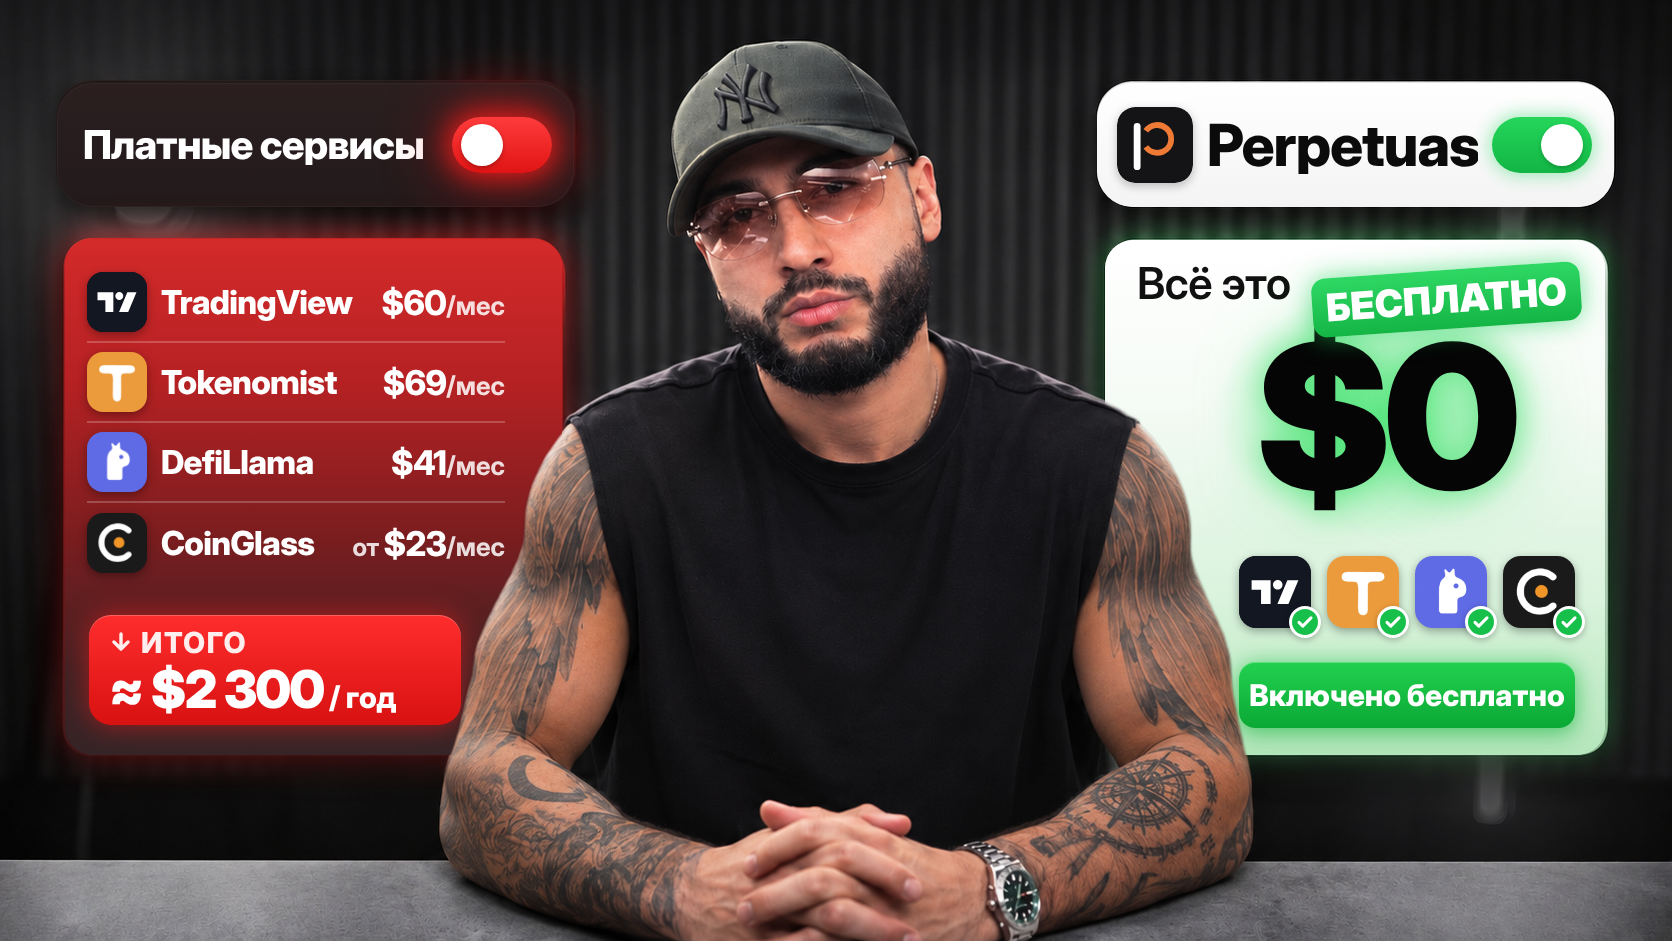
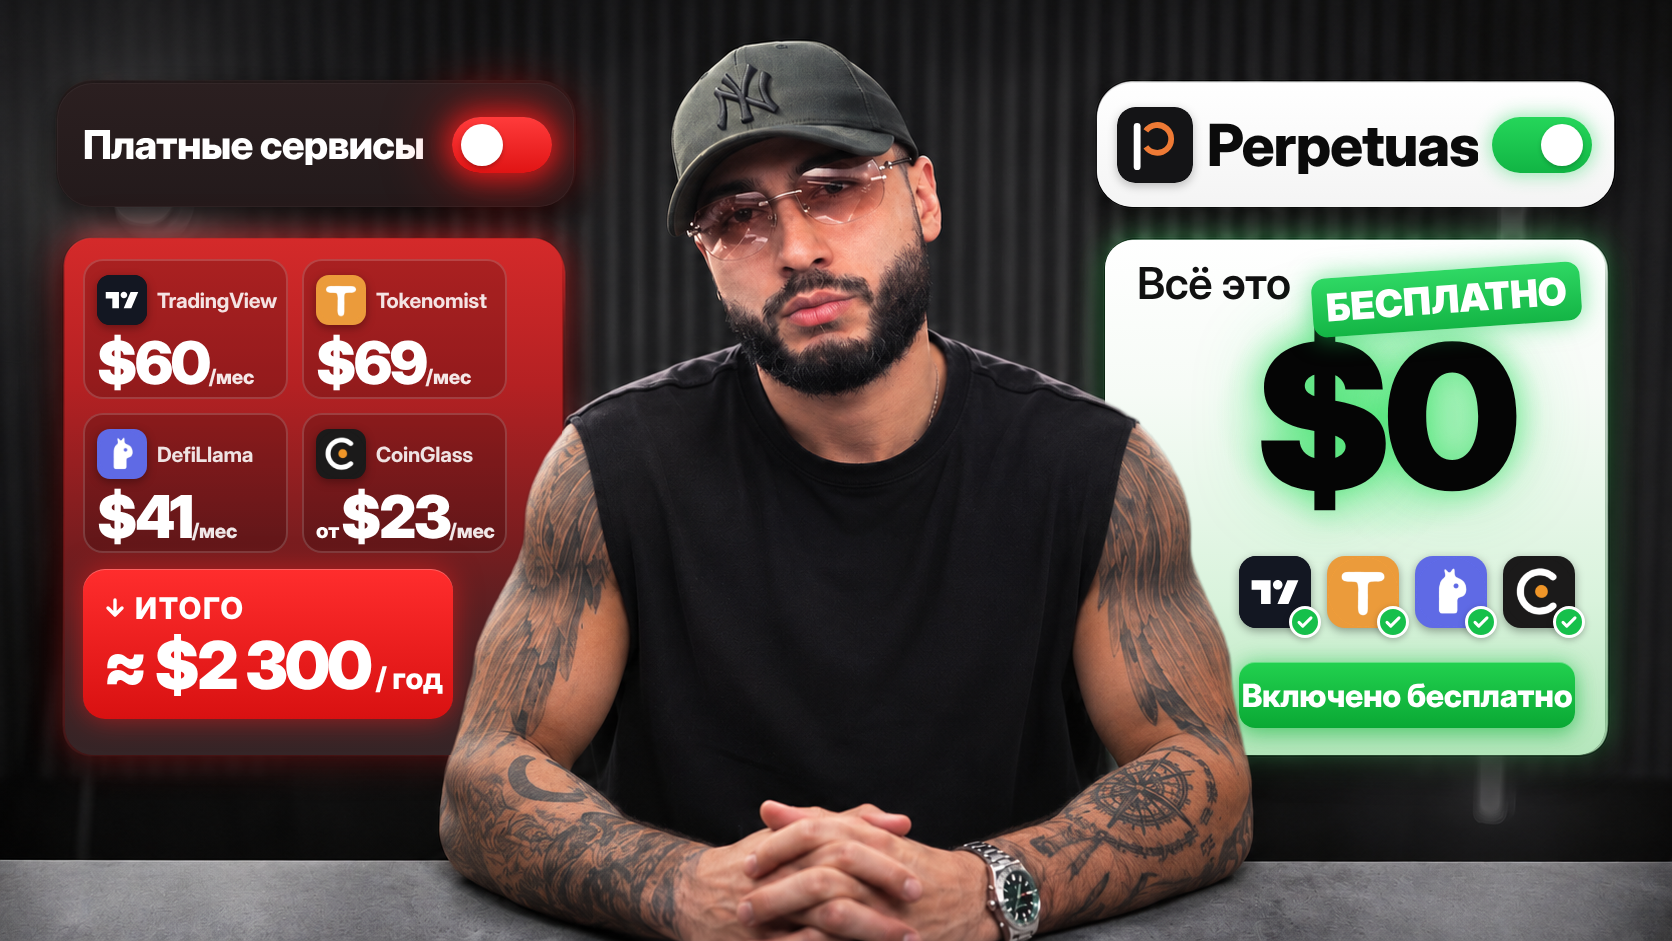
Thumbnail: bigger prices (2x2 tiles) and total for small-size legibility
Claude-Session: https://claude.ai/code/session_01Ep7WauupJspbq7yH3p3BPA

Changed region(s): [[0.0311, 0.2774, 0.311, 0.7705], [0.7464, 0.7088, 0.933, 0.7705]]

diff --git a/youtube_thumbnail/src/cards.html b/youtube_thumbnail/src/cards.html
@@ -38,24 +38,24 @@ body{font-family:"ID",sans-serif;position:relative;-webkit-font-smoothing:antial
   background:linear-gradient(180deg,#ffffff 0%,#f6fbf6 30%,#d9f3dc 70%,#b4e6bb 100%);
   box-shadow:0 0 34px rgba(80,230,120,.25),0 18px 40px rgba(0,0,0,.45)}
 
-/* left list */
-.list{position:absolute;left:22px;top:24px;width:418px}
-.row{display:flex;align-items:center;height:80px;gap:14px;border-bottom:2px solid rgba(255,255,255,.22)}
-.row:last-child{border-bottom:none}
-.ico{flex:none;width:60px;height:60px;border-radius:16px;overflow:hidden;display:flex;align-items:center;justify-content:center;
-  box-shadow:0 3px 10px rgba(0,0,0,.35)}
+/* left grid */
+.ico{flex:none;width:60px;height:60px;border-radius:16px;overflow:hidden;display:flex;align-items:center;justify-content:center;box-shadow:0 3px 10px rgba(0,0,0,.35)}
 .ico img{width:100%;height:100%;display:block}
-.name{color:#fff;font-weight:800;font-size:33px;letter-spacing:-0.02em;flex:1;white-space:nowrap}
-.price{color:#fff;font-weight:800;font-size:34px;letter-spacing:-0.02em;white-space:nowrap;text-align:right}
-.price small{font-size:26px;font-weight:700;color:rgba(255,255,255,.85);letter-spacing:0}
-.price .from{font-size:25px;font-weight:700;color:rgba(255,255,255,.85);margin-right:5px}
-
-.total{position:absolute;left:24px;top:376px;width:372px;height:110px;border-radius:22px;
+.grid{position:absolute;left:18px;top:20px;width:424px;display:grid;grid-template-columns:205px 205px;gap:14px}
+.tile{height:140px;border-radius:20px;background:rgba(0,0,0,.18);border:2px solid rgba(255,255,255,.16);padding:14px 10px 0 12px;position:relative;overflow:hidden}
+.tile .pr{display:inline-block;width:max-content}
+.tile .hd{display:flex;align-items:center;gap:10px}
+.tile .ico{width:50px;height:50px;border-radius:13px}
+.tile .nm{color:rgba(255,255,255,.88);font-weight:700;font-size:21px;letter-spacing:-0.01em;white-space:nowrap}
+.tile .pr{color:#fff;font-weight:900;font-size:66px;letter-spacing:-0.04em;line-height:1;margin-top:8px;white-space:nowrap}
+.tile .pr small{font-size:20px;font-weight:800;letter-spacing:-0.01em;color:rgba(255,255,255,.9)}
+.tile .pr .from{font-size:21px;font-weight:800;letter-spacing:-0.01em;margin-right:2px}
+.total{position:absolute;left:18px;top:330px;width:370px;height:150px;border-radius:22px;
   background:linear-gradient(180deg,#ff2d2d,#d81111);
   box-shadow:0 0 28px rgba(255,30,30,.55),inset 0 1px 0 rgba(255,255,255,.25);
   display:flex;flex-direction:column;align-items:flex-start;justify-content:center;padding:0 20px;color:#fff}
-.total .l1{font-weight:800;font-size:29px;letter-spacing:.06em;opacity:.92;display:flex;align-items:center;gap:8px}
-.total .l2{font-weight:900;font-size:52px;letter-spacing:-0.03em;line-height:1;margin-top:4px;white-space:nowrap}
+.total .l1{font-weight:800;font-size:30px;letter-spacing:.06em;display:flex;align-items:center;gap:8px}
+.total .l2{font-weight:900;font-size:66px;letter-spacing:-0.04em;line-height:1;margin-top:6px;white-space:nowrap}
 .total .l2 small{font-size:30px;font-weight:800;letter-spacing:-0.01em}
 
 /* right card */
@@ -73,7 +73,7 @@ body{font-family:"ID",sans-serif;position:relative;-webkit-font-smoothing:antial
 .icons .ck{position:absolute;right:-10px;bottom:-10px;width:32px;height:32px;border-radius:50%;background:#16c04b;
   border:3px solid #fff;display:flex;align-items:center;justify-content:center;box-shadow:0 2px 6px rgba(0,0,0,.25)}
 .btn{position:absolute;right:30px;top:422px;width:336px;height:66px;border-radius:16px;
-  background:linear-gradient(180deg,#22d14f,#0aa834);color:#fff;font-weight:800;font-size:30px;letter-spacing:0;white-space:nowrap;
+  background:linear-gradient(180deg,#22d14f,#0aa834);color:#fff;font-weight:800;font-size:32px;letter-spacing:-0.01em;white-space:nowrap;
   display:flex;align-items:center;justify-content:center;box-shadow:0 6px 20px rgba(10,170,50,.45),0 0 22px rgba(30,210,80,.35),inset 0 1px 0 rgba(255,255,255,.3)}
 </style></head>
 <body>
@@ -85,12 +85,12 @@ body{font-family:"ID",sans-serif;position:relative;-webkit-font-smoothing:antial
 
 <!-- LEFT CARD -->
 <div class="abs card cardL">
-  <div class="list">
-    <div class="row"><div class="ico" style="background:#131722"><img src="icons/tradingview_tile.svg"></div><div class="name">TradingView</div><div class="price">$60<small>/мес</small></div></div>
-    <div class="row"><div class="ico" style="background:#eb9b3b"><img src="icons/tokenomist.png"></div><div class="name">Tokenomist</div><div class="price">$69<small>/мес</small></div></div>
-    <div class="row"><div class="ico" style="background:#5f6ae5"><img src="icons/defillama.png"></div><div class="name">DefiLlama</div><div class="price">$41<small>/мес</small></div></div>
-    <div class="row"><div class="ico" style="background:#1b1a1a"><img src="icons/coinglass.png"></div><div class="name">CoinGlass</div><div class="price"><span class="from">от</span>$23<small>/мес</small></div></div>
-  </div>
+  <div class="grid">
+<div class="tile"><div class="hd"><div class="ico" style="background:#131722"><img src="icons/tradingview_tile.svg"></div><div class="nm">TradingView</div></div><div class="pr">$60<small>/мес</small></div></div>
+<div class="tile"><div class="hd"><div class="ico" style="background:#eb9b3b"><img src="icons/tokenomist.png"></div><div class="nm">Tokenomist</div></div><div class="pr">$69<small>/мес</small></div></div>
+<div class="tile"><div class="hd"><div class="ico" style="background:#5f6ae5"><img src="icons/defillama.png"></div><div class="nm">DefiLlama</div></div><div class="pr">$41<small>/мес</small></div></div>
+<div class="tile"><div class="hd"><div class="ico" style="background:#1b1a1a"><img src="icons/coinglass.png"></div><div class="nm">CoinGlass</div></div><div class="pr"><span class="from">от</span>$23<small>/мес</small></div></div>
+</div>
   <div class="total">
     <div class="l1">
       <svg width="24" height="24" viewBox="0 0 24 24"><path d="M12 4v14M5 12l7 7 7-7" stroke="#fff" stroke-width="3.4" fill="none" stroke-linecap="round" stroke-linejoin="round"/></svg>
@@ -119,5 +119,10 @@ document.querySelectorAll('.fit').forEach(el=>{
   while(el.scrollWidth>el.clientWidth && s>20){s-=1;el.style.fontSize=s+'px'}
   el.dataset.final=s;
 });
+
+document.fonts.ready.then(function(){const prs=[...document.querySelectorAll('.tile .pr')];let f=66;
+ const fits=()=>prs.every(p=>p.getBoundingClientRect().width<=p.parentElement.clientWidth-22);
+ while(!fits()&&f>40){f--;prs.forEach(p=>p.style.fontSize=f+'px')}
+ document.body.dataset.pr=f;});
 </script>
 </body></html>

diff --git a/youtube_thumbnail/src/render.js b/youtube_thumbnail/src/render.js
@@ -1,5 +1,5 @@
 const {chromium}=require('playwright');
 (async()=>{const b=await chromium.launch();const p=await b.newPage({viewport:{width:1672,height:941},deviceScaleFactor:1});
-await p.goto('file://'+process.cwd()+'/cards.html');await p.waitForTimeout(400);
-console.log(await p.$$eval('.fit',e=>e.map(x=>x.textContent+':'+x.dataset.final)));
+await p.goto('file://'+process.cwd()+'/cards.html');await p.evaluate(()=>document.fonts.ready);await p.waitForTimeout(400);
+console.log(await p.$$eval('.fit',e=>e.map(x=>x.textContent+':'+x.dataset.final)), await p.evaluate(()=>document.body.dataset.pr));
 await p.screenshot({path:'cards.png',omitBackground:true});await b.close();})();
